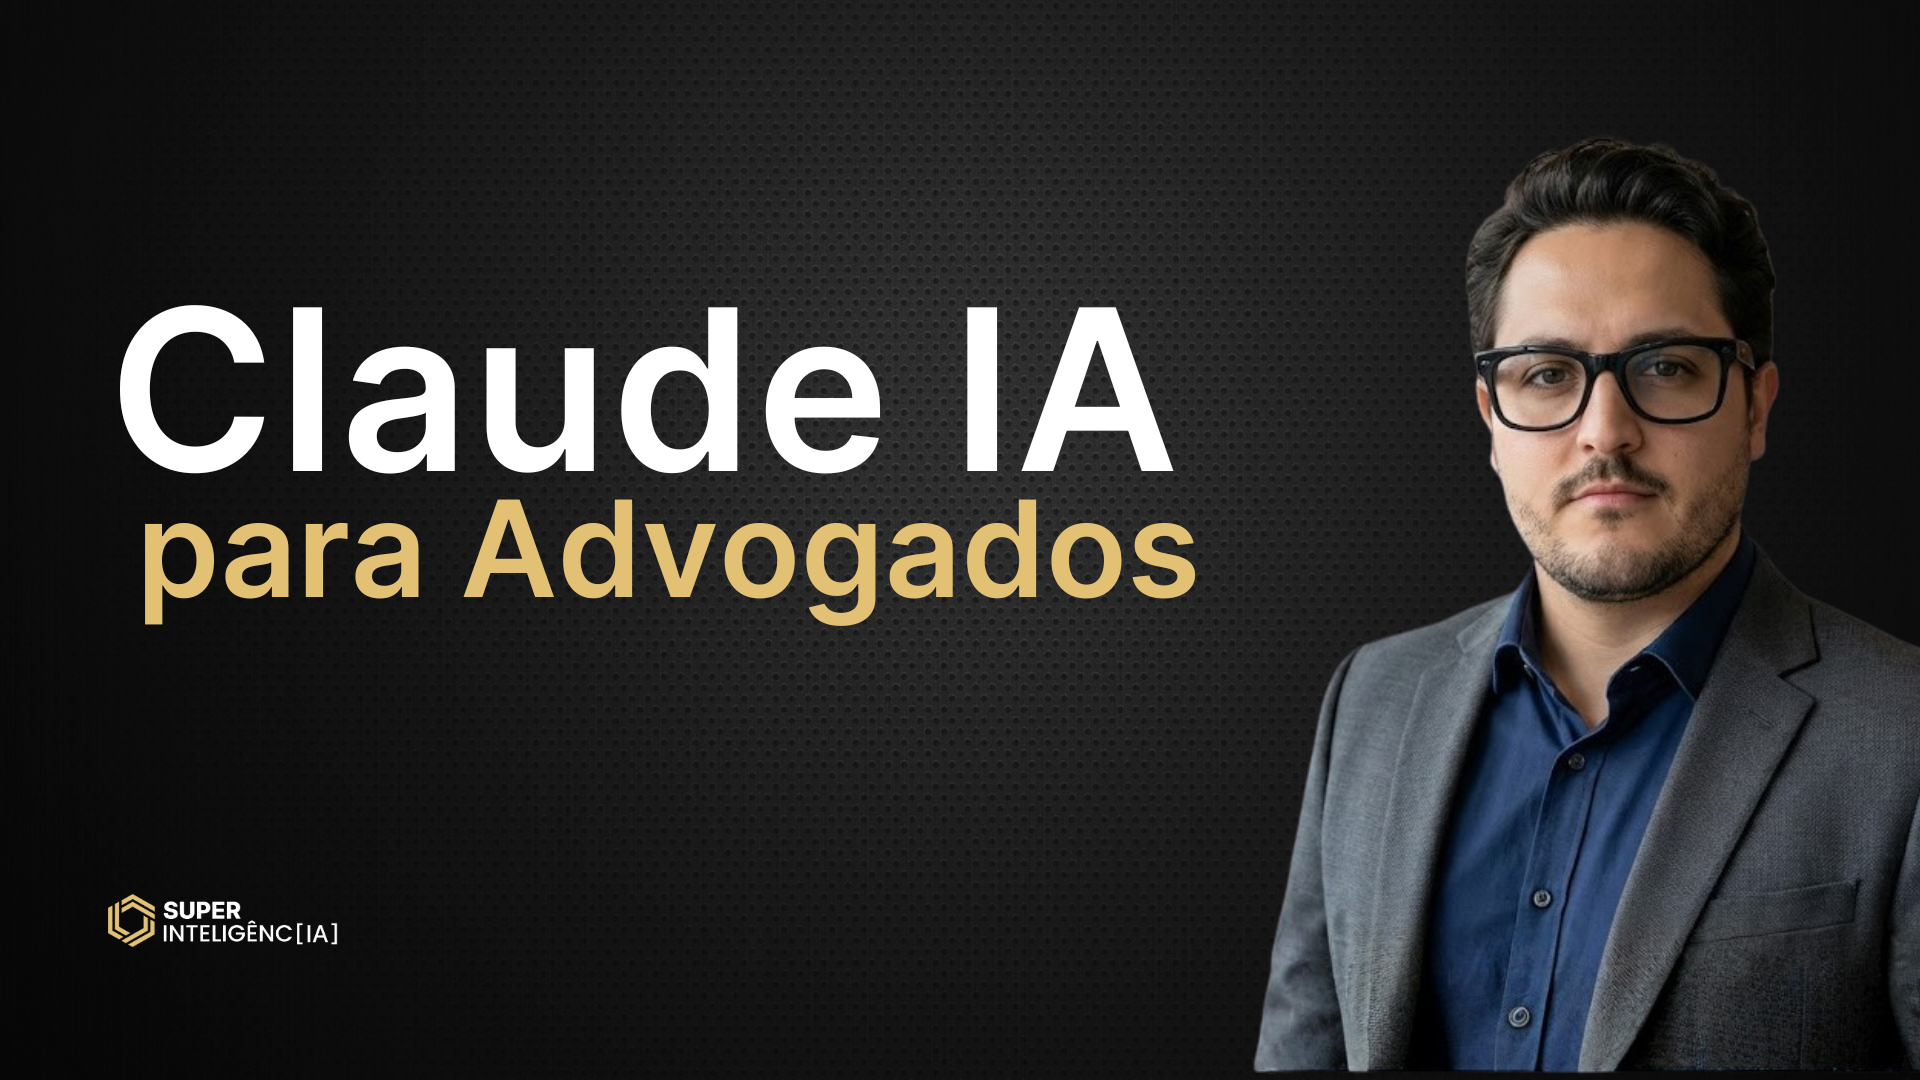
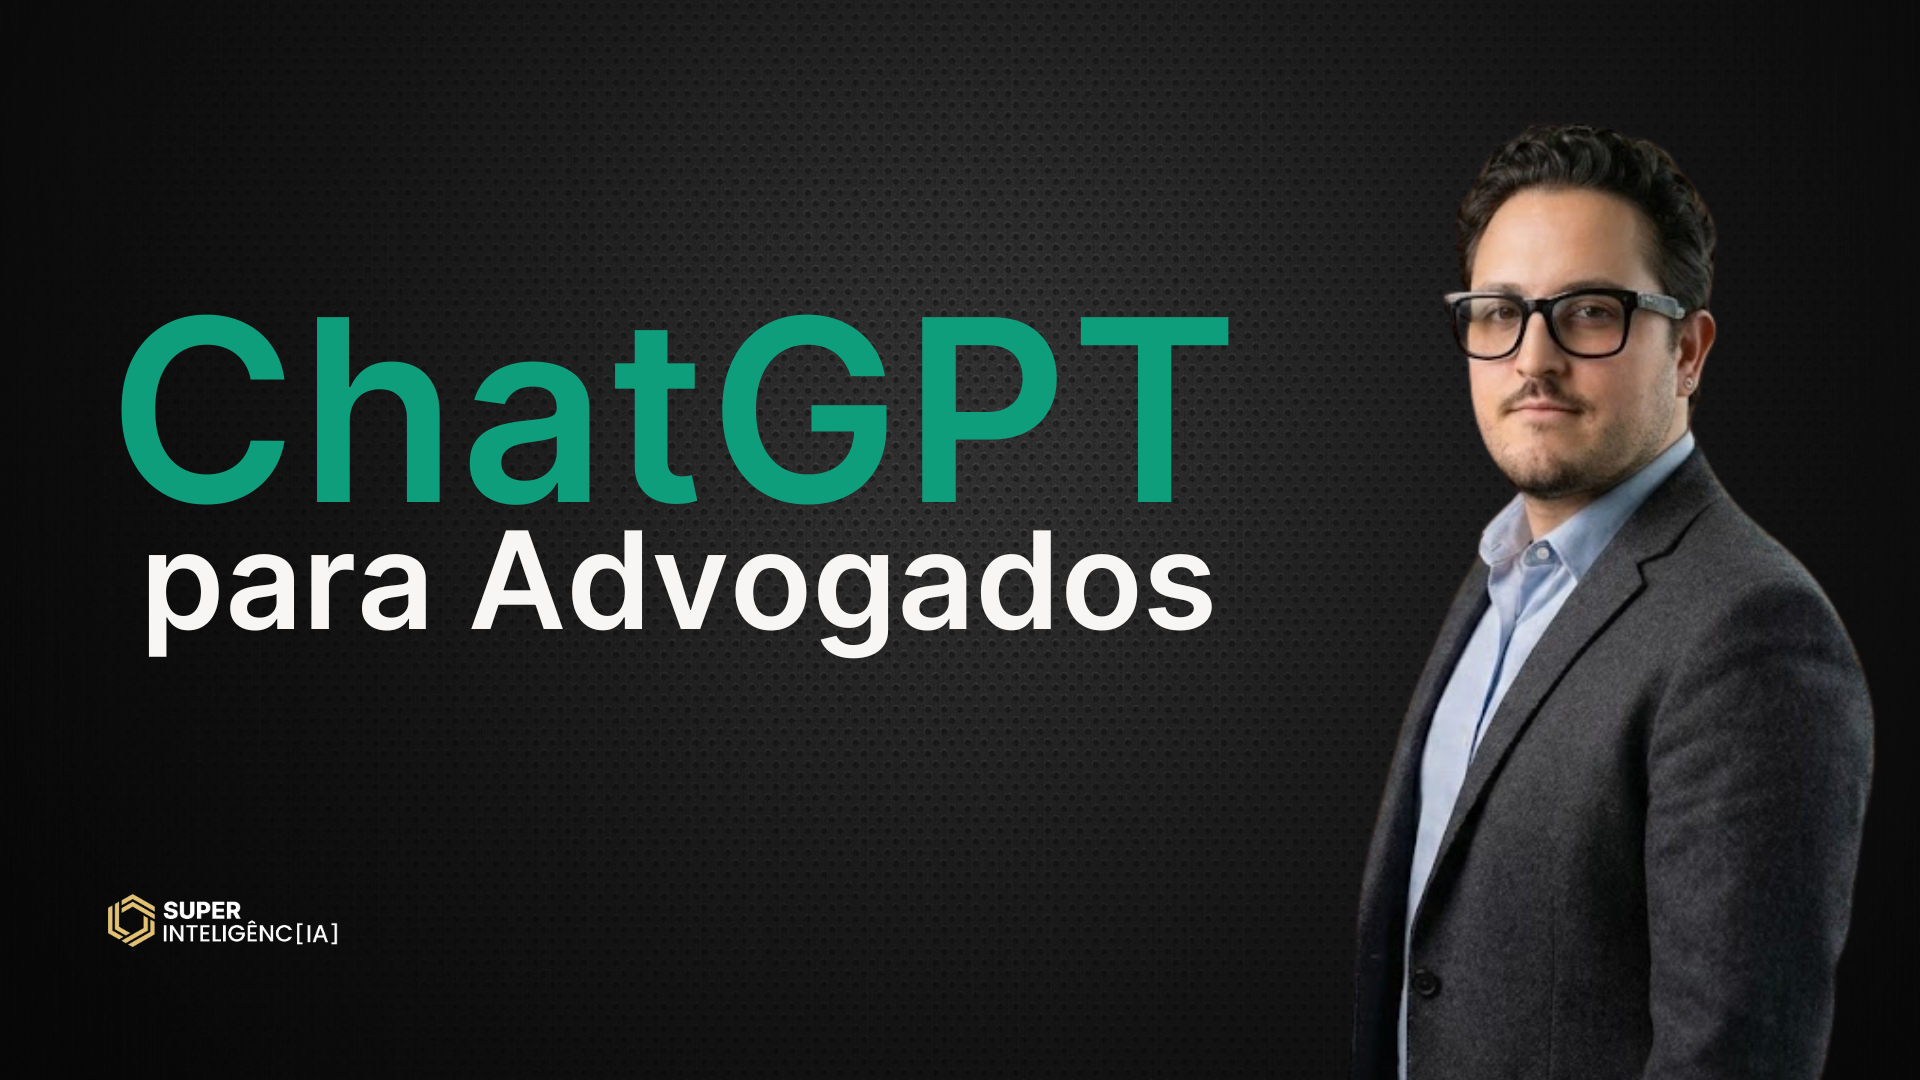
chore: atualizar OG image e senha de acesso (#6)
- Nova thumb "ChatGPT para Advogados" para compartilhamento em redes sociais
- Senha de acesso atualizada

Changed region(s): [[0.6562, 0.1222, 1.0, 1.0], [0.0625, 0.275, 0.6562, 0.6111]]

diff --git a/src/components/LoginGate.tsx b/src/components/LoginGate.tsx
@@ -1,7 +1,7 @@
 import { useState, useRef, useEffect } from 'react'
 import { Lock, AlertCircle, Eye, EyeOff, ArrowRight, MessageSquare } from 'lucide-react'
 
-const ACCESS_KEY = '6114Adv104ChatGPT'
+const ACCESS_KEY = '11632GPTchat'
 const STORAGE_KEY = 'si-chatgpt-advogados-auth'
 
 // ChatGPT-inspired teal/green palette (distinct from Claude gold)
